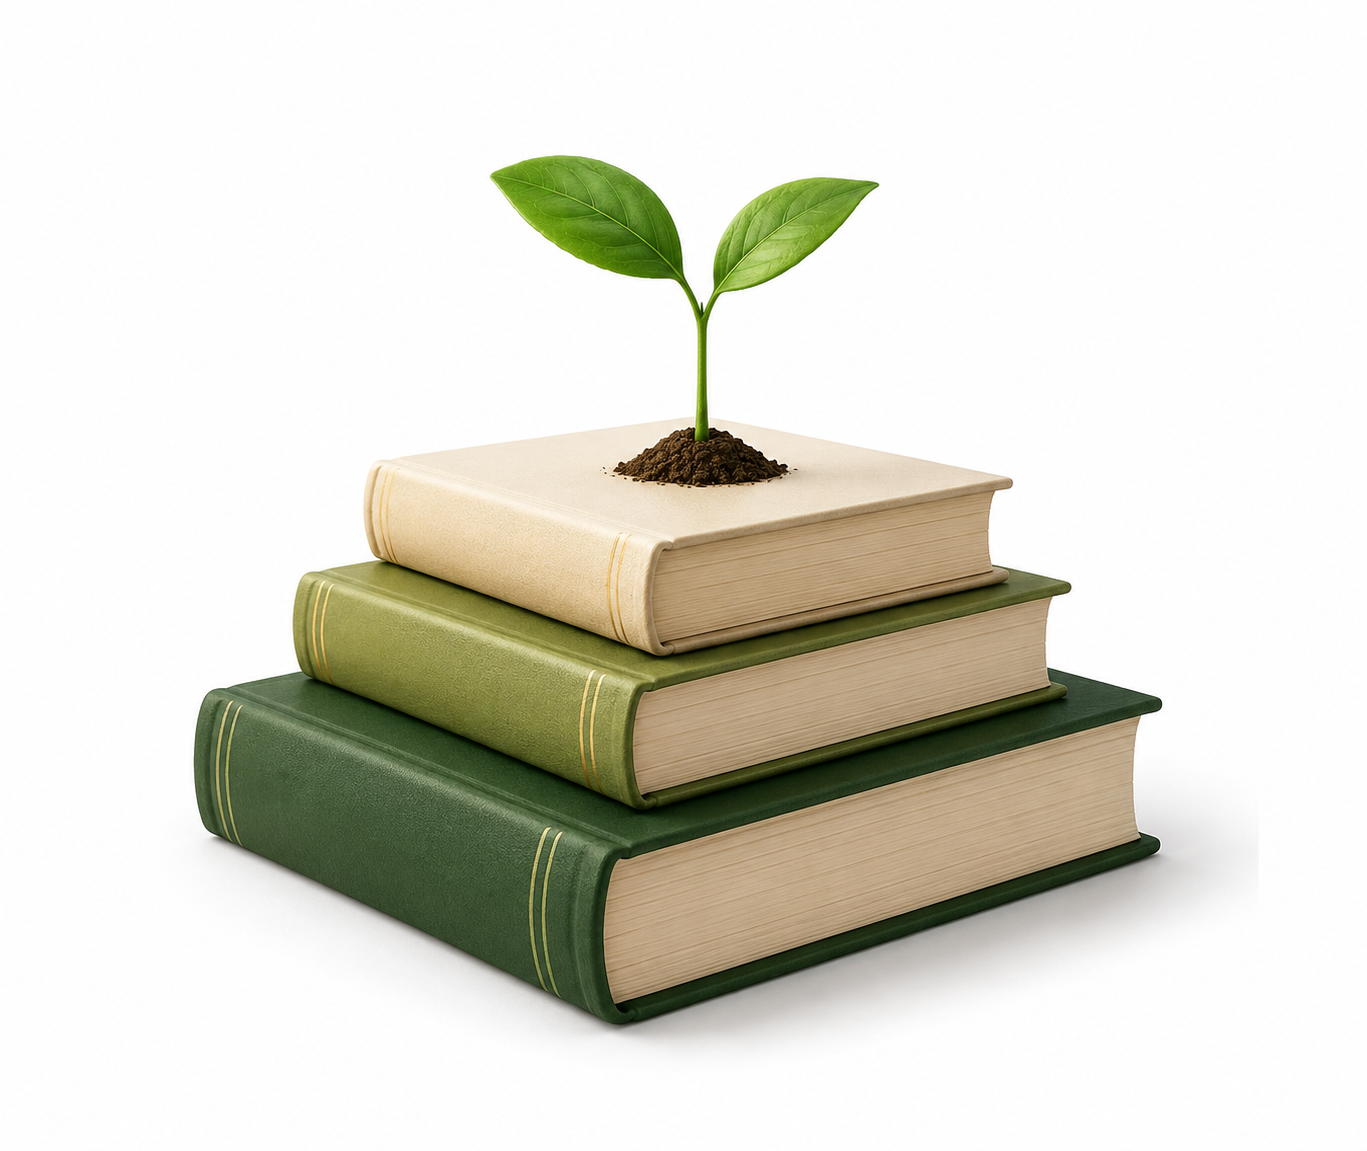
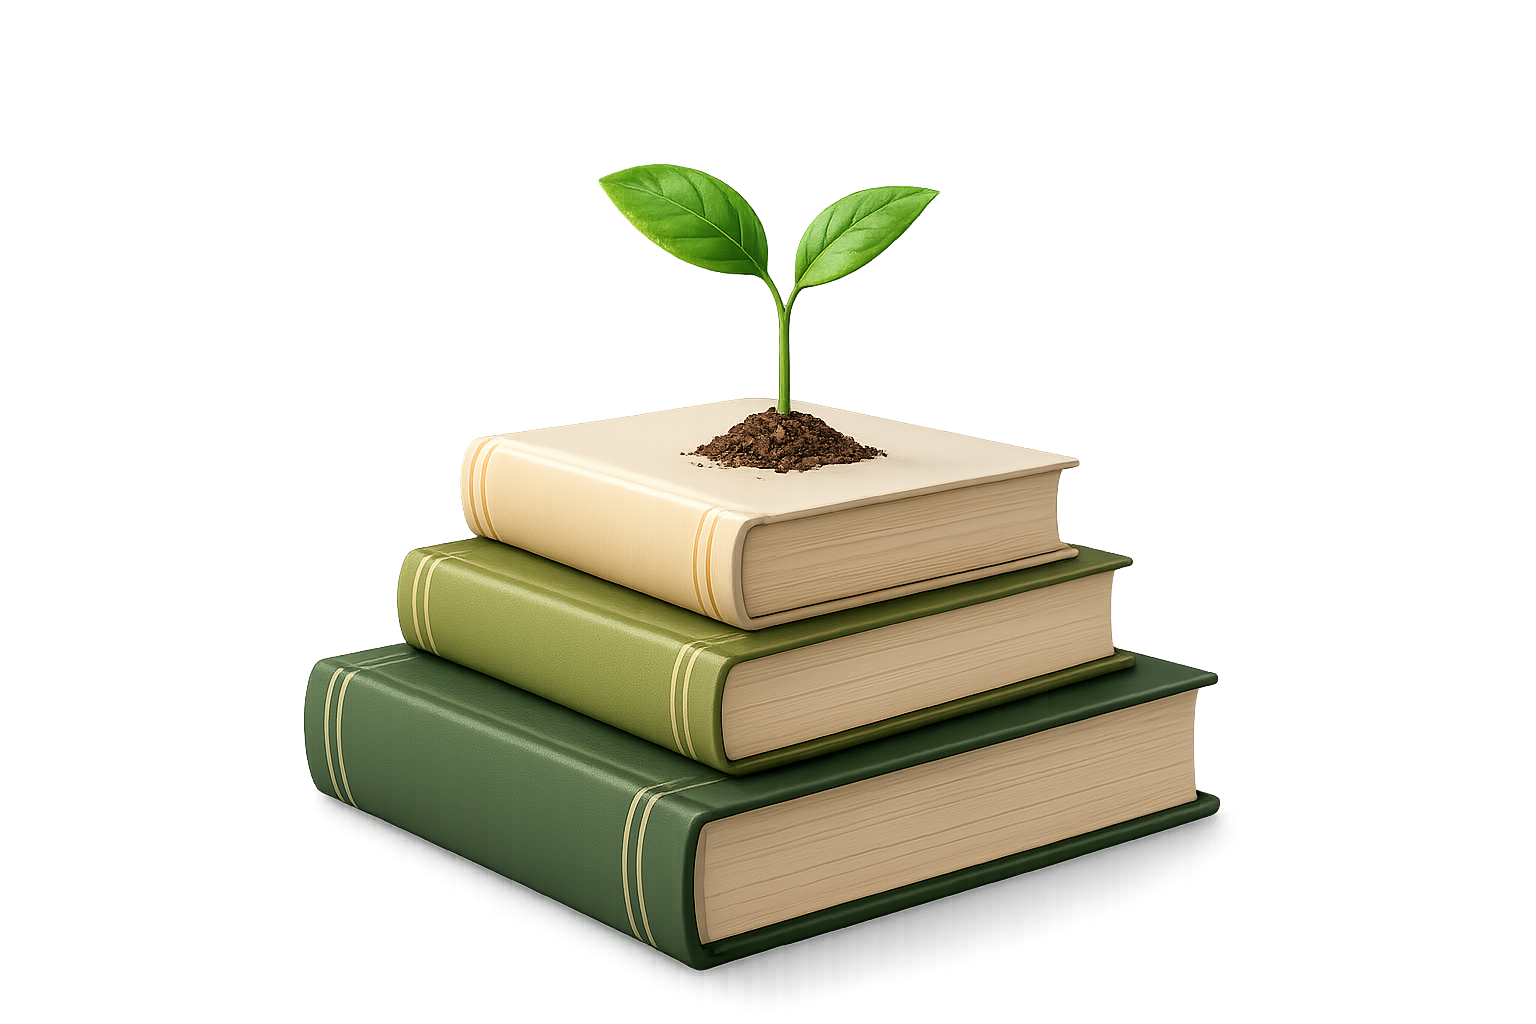
modified hero

Changed region(s): [[0.1229, 0.125, 0.891, 0.9688]]

diff --git a/css/style.css b/css/style.css
@@ -283,7 +283,26 @@ header{
 }
 
 .hero-text{
-    flex:1;
+    animation:fadeUp .8s ease;
+}
+
+@keyframes fadeUp{
+    from{
+        opacity:0;
+        transform:translateY(30px);
+    }
+
+    to{
+        opacity:1;
+        transform:translateY(0);
+    }
+}
+
+.hero-image{
+    flex:0.85;
+}
+.hero-badge{
+    box-shadow:0 6px 20px rgba(46,125,50,.12);
 }
 
 .hero-badge{
@@ -356,6 +375,12 @@ header{
 
     border:2px solid var(--primary);
 
+    transition:.3s ease;
+
+}
+
+.search-box:focus-within{
+    box-shadow:0 0 0 4px rgba(46,125,50,.15);
 }
 
 .search-box input{
@@ -411,12 +436,25 @@ header{
 }
 
 .hero-image img{
-
     width:100%;
-
-    max-width:500px;
-
+    max-width:480px;
+    height:auto;
 }
+
+.hero-image img{
+    animation: float 4s ease-in-out infinite;
+}
+
+@keyframes float{
+    0%,100%{
+        transform:translateY(0);
+    }
+
+    50%{
+        transform:translateY(-12px);
+    }
+}
+
 /* ==========================
    CATEGORIES
 ========================== */
